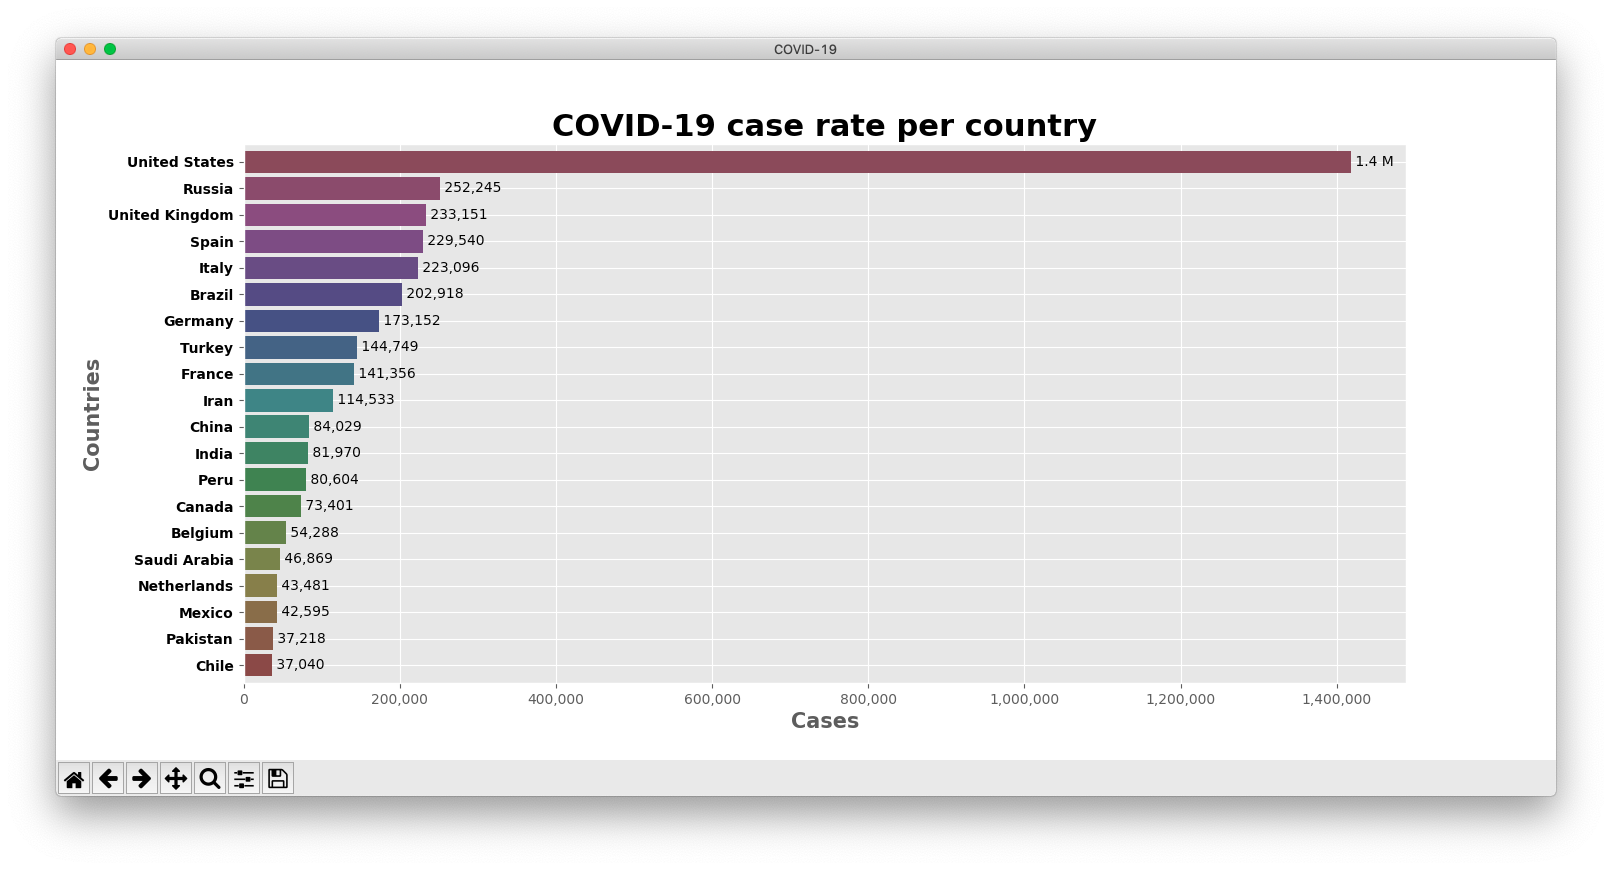
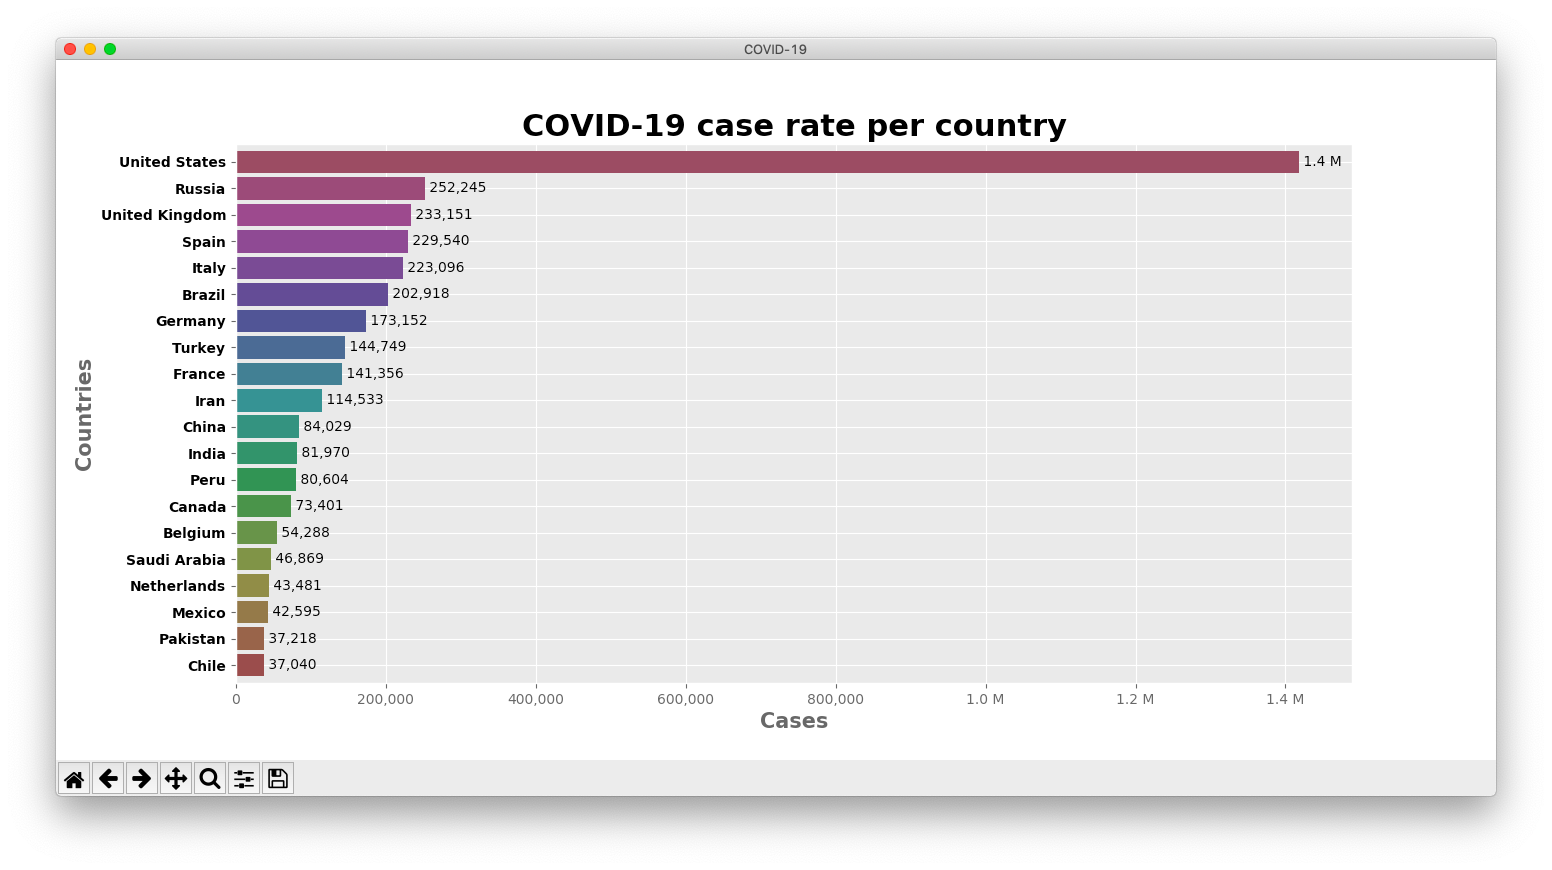
refactoring axis formater

diff --git a/Functions/graph_functions.py b/Functions/graph_functions.py
@@ -3,7 +3,7 @@ import matplotlib.pyplot as plt
 import matplotlib as mpl
 import pandas as pd
 import numpy as np
-from Classes.classes import Graph
+from Classes.classes import Graph, format_numbers
 from Functions.option_functions import choose_chart, choose_country, choose_time_period
 import colorsys
 import matplotlib as mpl
@@ -20,19 +20,6 @@ def get_N_HexCol(N=20):
         hex_out.append('#%02x%02x%02x' % tuple(rgb))
     return hex_out
 
-def format_numbers(arr):
-    i = 0
-    for num in arr:
-        if len(num) >= 8:
-            arr[i] = (num[:3] + ' M').replace(',', '.')
-        i += 1
-    return arr
-
-def cases(x, pos):
-    if x >= 1000000:
-        return '{:1.1f} M'.format(x*1e-6)
-    return '{:,}'.format(int(x), ',')
-
 def show_most_cases(chart_num, df):
     '''
     Shows 20 countries statistic of most cases/deaths
@@ -41,12 +28,12 @@ def show_most_cases(chart_num, df):
         param: chart name, dataframe
         type: str, dataframe object
     '''
+    formatter = FuncFormatter(format_numbers)
     chart = stats[chart_num]
     stats_name = chart.split(sep='_')[-1]
     graph = Graph('COVID-19 ' + stats_name[:-1] + ' rate per country', 'countries', stats_name)
     top20 = df.groupby('location')[[chart]].sum().sort_values([chart])[-21:-1].reset_index()
-    values = top20[chart].apply("{:,}".format).to_numpy()
-    values = format_numbers(values)
+    values = top20[chart].apply(formatter).to_numpy()
     top20.plot(kind='barh', color=get_N_HexCol(), width=0.85, y=chart, x='location', ax=graph.ax)
     graph.set_info()
     for i, country in enumerate(top20[chart]):
@@ -54,7 +41,6 @@ def show_most_cases(chart_num, df):
     graph.ax.legend().set_visible(False)
     plt.yticks(fontweight='bold', color='black')
     plt.xticks(fontsize=10)
-    formatter = FuncFormatter(cases)
     graph.ax.xaxis.set_major_formatter(formatter)
     plt.show()
 

diff --git a/Classes/classes.py b/Classes/classes.py
@@ -5,9 +5,15 @@ import pandas as pd
 from datetime import datetime, timedelta
 import matplotlib.dates as mdates
 import matplotlib as mpl
+from matplotlib.ticker import FuncFormatter
 
 title_font = {'fontweight':'bold', 'fontsize':22}
 label_font = {'weight':'bold', 'fontsize': 15}
+
+def format_numbers(x, pos):
+    if x >= 1000000:
+        return '{:1.1f} M'.format(x*1e-6)
+    return '{:,}'.format(int(x), ',')
 
 class Graph:
     plt.style.use('ggplot')
@@ -24,9 +30,10 @@ class Graph:
         self.ax.set_ylabel(self.ylabel.title(), fontdict=label_font)
 
     def ajust_graph(self):
+        formatter = FuncFormatter(format_numbers)
         plt.xticks(fontsize=10, rotation=50, ha="right")
         plt.yticks(fontsize=10)
-        self.ax.yaxis.set_major_formatter(mpl.ticker.FuncFormatter(lambda x, p: format(int(x), ',')))
+        self.ax.yaxis.set_major_formatter(formatter)
         self.ax.xaxis.set_major_locator(mdates.WeekdayLocator())
         plt.legend(loc=2)
         plt.tight_layout()
